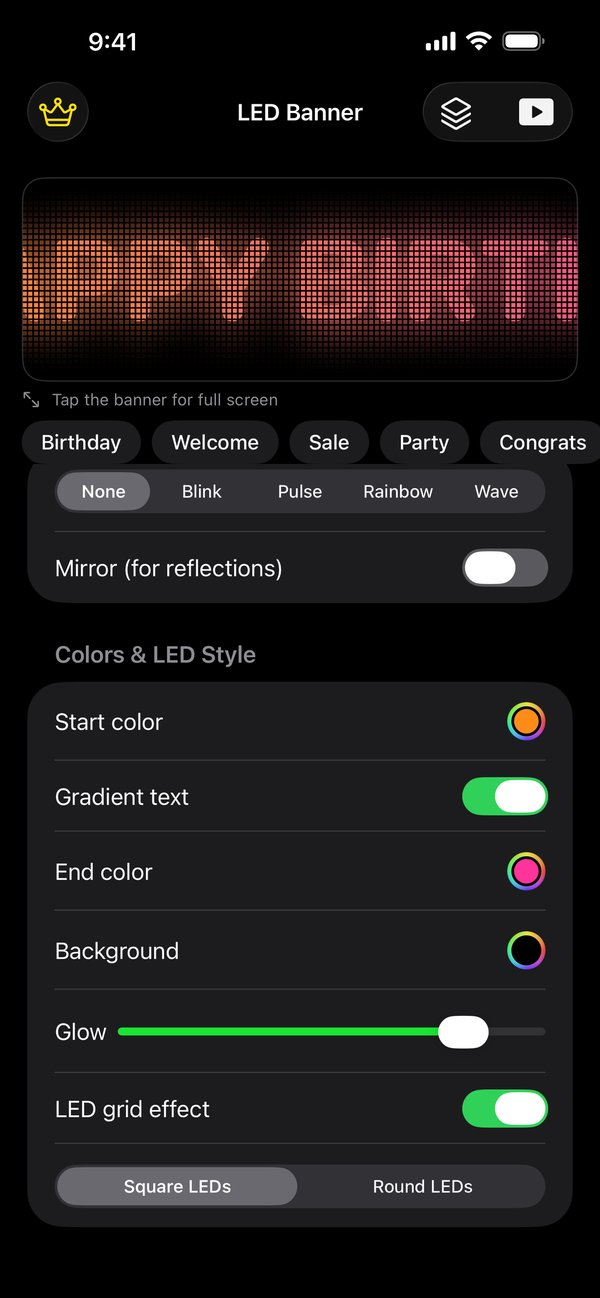
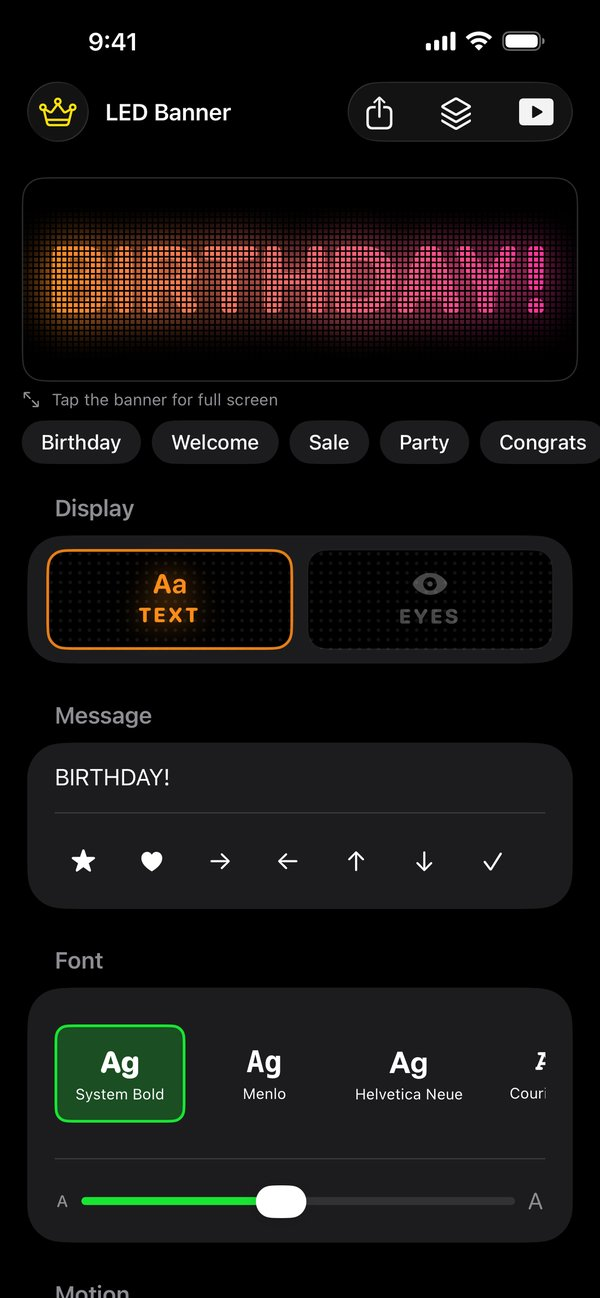
Update the site for 1.1: eyes, export and the Watch remote
New screenshots, an Eyes section, export and Apple Watch copy, and three
support answers for saving a video, installing the watch app and the eye
width and height sliders.

diff --git a/index.html b/index.html
@@ -4,11 +4,11 @@
 <meta charset="utf-8">
 <meta name="viewport" content="width=device-width, initial-scale=1">
 <title>LED Banner - Scrolling Sign</title>
-<meta name="description" content="Turn your iPhone or iPad into a glowing scrolling LED sign.">
+<meta name="description" content="Turn your iPhone or iPad into a glowing scrolling LED sign - or a pair of eyes that blink and look around.">
 <meta property="og:type" content="website">
 <meta property="og:url" content="https://pacificfrontdesk.github.io/ledbanner/">
 <meta property="og:title" content="LED Banner - Scrolling Sign">
-<meta property="og:description" content="Turn your iPhone or iPad into a glowing scrolling LED sign.">
+<meta property="og:description" content="Turn your iPhone or iPad into a glowing scrolling LED sign - or a pair of eyes that blink and look around.">
 <meta property="og:image" content="https://pacificfrontdesk.github.io/ledbanner/img/icon.jpg">
 <meta name="twitter:card" content="summary">
 <meta name="apple-itunes-app" content="app-id=6801027903">
@@ -61,36 +61,55 @@
   </div>
 </div>
 
-<p class="tagline">Turn your screen into a glowing LED sign.</p>
+<p class="tagline">A glowing sign, or a pair of eyes staring back.</p>
 <p>Type a message and LED Banner scrolls it across your screen in bright, glowing LED letters -
 for concerts, parties, airport pickups, sports games, shop windows, or just saying hello across
-a noisy room. Tap the banner and the whole screen becomes the sign.</p>
+a noisy room. Or switch to Eyes mode, and the screen becomes a pair of eyes that blink on their
+own and look around. Tap the banner and it fills the whole screen at full brightness.</p>
 <a class="cta" href="https://apps.apple.com/app/id6801027903">Get LED Banner on the App Store</a>
 <p class="sub">Free for iPhone and iPad</p>
 
-<img class="wide" src="img/fullscreen.jpg" width="1200" height="555" alt="Full-screen banner reading PARTY! in rainbow LED letters">
+<img class="wide" src="img/fullscreen.jpg" width="1200" height="555" alt="Full screen filled with a pair of angry red LED eyes">
 
 <div class="shots">
-  <img src="img/01-main.jpg" width="600" height="1298" alt="Main screen with a live rainbow preview, one-tap templates and the message editor">
-  <img src="img/02-gradient.jpg" width="600" height="1298" alt="Gradient text: HAPPY BIRTHDAY fading from orange to pink, with start and end colour pickers">
-  <img src="img/03-presets.jpg" width="600" height="1298" alt="Saved presets: Birthday party, Concert night and Airport pickup">
+  <img src="img/01-eyes.jpg" width="600" height="1298" alt="Eyes mode: a gallery of eye styles, each shown as a live preview in the banner's own colours">
+  <img src="img/02-gradient.jpg" width="600" height="1298" alt="Gradient text: BIRTHDAY! fading from orange to pink, with start and end colour pickers">
+  <img src="img/03-export.jpg" width="600" height="1298" alt="Save and share: create an image or a six-second video of your banner">
 </div>
 
-<h2>What you can do</h2>
+<h2>Signs</h2>
 <ul>
   <li>Scroll left, right, up or down, or keep the text still, at any speed</li>
   <li>Effects: Blink, Pulse, Rainbow, and Wave - a rainbow that flows through the letters</li>
   <li>Gradient text that fades from one colour to another across your message</li>
   <li>Any text colour and background, adjustable glow, square or round LED pixels</li>
-  <li>One-tap templates: Birthday, Welcome, Party, Congrats, Go Team, Open, Pickup and more</li>
+  <li>Stars, hearts, arrows and emoji you can tap straight into a message</li>
+  <li>12 one-tap templates: Birthday, Welcome, Sale, Party, Congrats, Go Team, Open, Pickup,
+      Wedding, Graduation, Taxi and Yard Sale</li>
   <li>Mirror mode for showing a banner through a mirror or a car window</li>
-  <li>Full-screen mode that keeps the screen awake while your sign is up</li>
-  <li>Saved presets for the banners you use again and again</li>
+  <li>Full screen at full brightness, awake for as long as your sign is up</li>
+  <li>Saved banners you can bring back in a tap</li>
 </ul>
 
+<h2>Eyes</h2>
+<ul>
+  <li>21 styles: round, cat, sleepy, wide, wink, robot, heart and X eyes</li>
+  <li>An angry family of seven, from a mild scowl to a full glare</li>
+  <li>A Halloween set: Monster, Pumpkin, Skull, Spider and Zombie</li>
+  <li>Picked from a gallery of previews in your own colours, not from a list of names</li>
+  <li>Width and height set separately - wide and flat, or tall and narrow</li>
+  <li>Movement presets: slow blink, fast blink, sleepy, twitchy, look around, or a dead stare</li>
+</ul>
+
+<h2>Save it, or run it from your wrist</h2>
+<p>Export your banner as an image or a short video and send it to anyone. And with the Apple Watch
+app, start or stop the full-screen banner, switch the message and change the effect without
+touching your phone - handy when it is propped on a dashboard or a table.</p>
+
 <h2>Free, with an optional Pro upgrade</h2>
-<p>Everything above is free. A one-time Pro purchase adds premium fonts and unlimited saved
-presets. No subscription, no adverts, no account.</p>
+<p>Everything above is free, including Eyes mode and exporting. A one-time Pro purchase adds
+premium fonts, unlimited saved banners and exports without the small LED Banner mark. No
+subscription, no adverts, no account.</p>
 
 <h2>Help and policies</h2>
 <ul>

diff --git a/support.html b/support.html
@@ -67,6 +67,21 @@ Tap anywhere to exit. The screen stays awake while the banner is showing. Turn y
 sideways for the biggest letters - if it does not rotate, turn off Portrait Orientation Lock in
 Control Center.</p>
 
+<h2>How do I save my banner as a video?</h2>
+<p>Tap the share button at the top of the main screen, then <strong>Create video</strong>. It makes
+a six-second clip you can send in a message or save to Photos. <strong>Create image</strong> makes a
+still instead. Free exports carry a small LED Banner mark in the corner; Pro removes it.</p>
+
+<h2>How do I use the Apple Watch app?</h2>
+<p>Open the Watch app on your iPhone, find LED Banner under <strong>Available Apps</strong> and
+install it. On the watch you can start or stop the full-screen banner, switch the message and
+change the effect. LED Banner needs to be open on your iPhone for the watch to reach it.</p>
+
+<h2>The eyes look squashed</h2>
+<p>Eyes mode has separate <strong>Width</strong> and <strong>Height</strong> sliders, so a low height
+with a wide width gives you a flat, angry-looking eye. Raise the height for a rounder one. The pair
+always keeps its shape when you turn the device; it just scales down to fit.</p>
+
 <h2>I bought Pro but the fonts are still locked</h2>
 <p>Tap the crown in the top left corner and then <strong>Restore Purchases</strong>. Pro is tied to
 your Apple Account, so make sure you are signed in with the same one you bought it with.</p>
